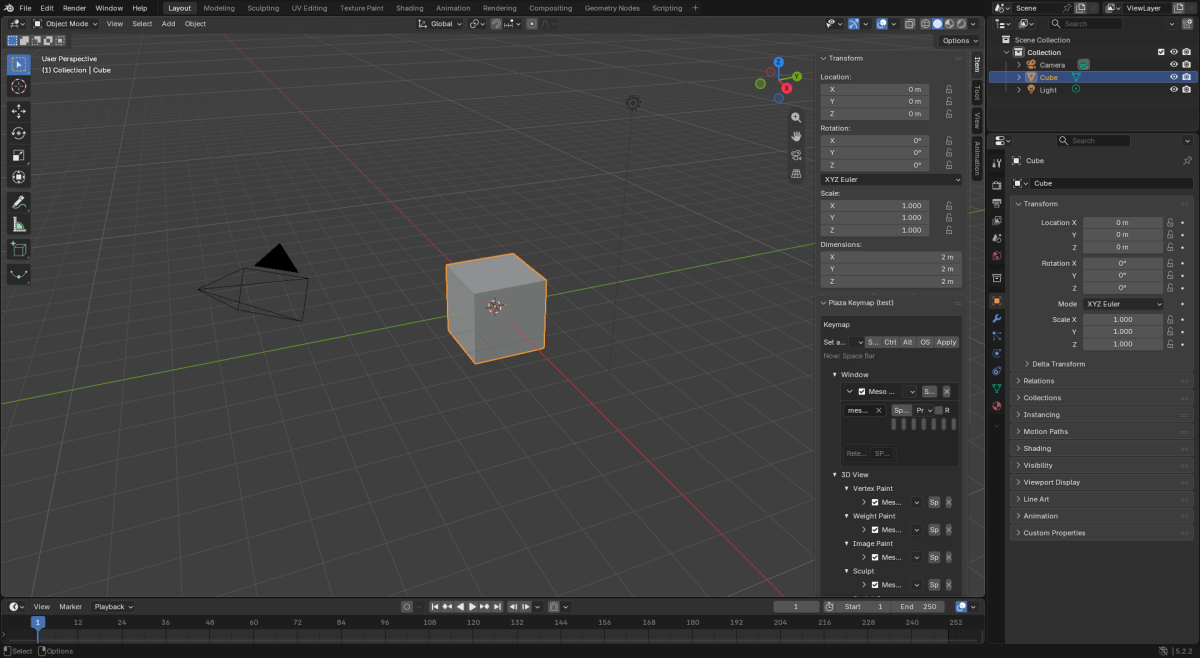
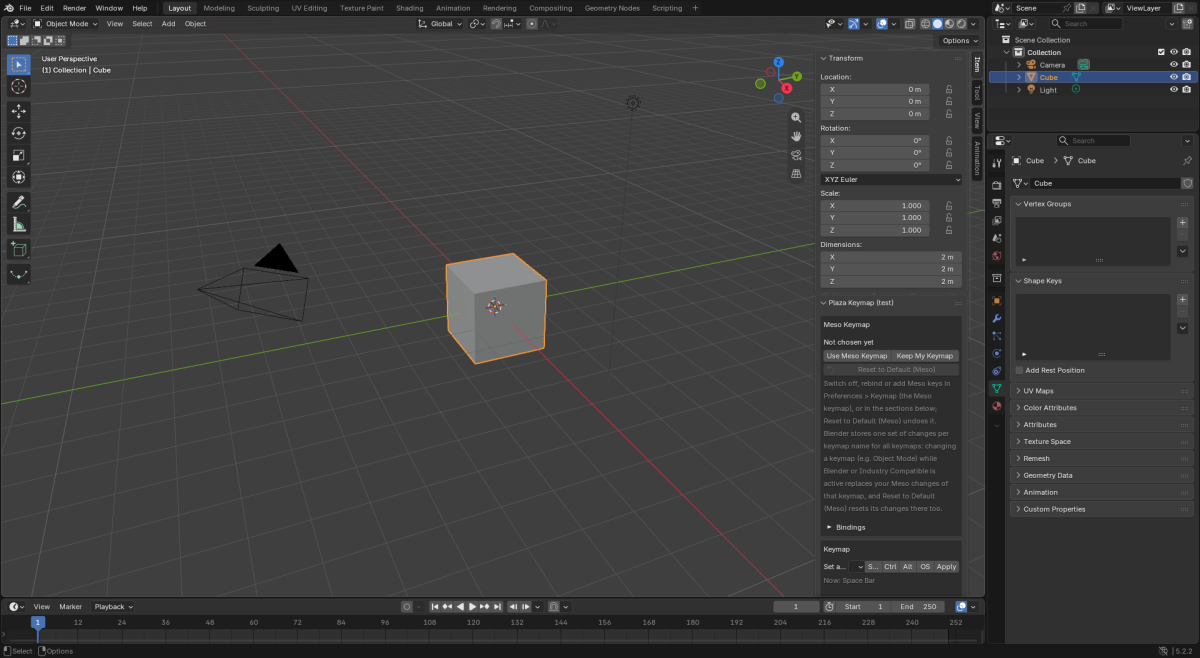
GUI tests: the help text wraps in the real Preferences window
prefs_wrap opens the Preferences on the add-on (preferences.addon_show, as
the Plaza's Meso Settings box does) with the Meso keymap in use, and checks
that the Meso Keymap hints fit their row and break only where the next word
would not fit, at UI scale 1, at 1.5 (more lines) and back (the same lines
again). save_screenshot takes another window. New reference shots:
prefs_wrap.png, prefs_wrap_bindings.png; the sidebar and dialog shots show
the wrapped text.

diff --git a/tests/gui/scenarios_prefs.py b/tests/gui/scenarios_prefs.py
@@ -5,7 +5,10 @@
 Headless tests draw it into a recording stand-in; this one draws the real thing into a real
 UILayout: a temporary 3D View sidebar panel calls ``keymap_prefs.draw`` with every section
 expanded and the Window item's details open (the path that queries the window-system
-capabilities). Loaded by ``tests/gui/gui_driver.py`` like every ``scenarios_*.py``.
+capabilities). ``prefs_wrap`` opens the real Preferences window on the add-on (as the Plaza's
+Meso Settings box does) and checks that the help text wraps to the full width of its row, at UI
+scale 1 and 1.5 and back (``docs/screenshots/prefs_wrap*.png``). Loaded by
+``tests/gui/gui_driver.py`` like every ``scenarios_*.py``.
 """
 
 import importlib
@@ -91,4 +94,117 @@ def scenarios(drv):
             area.tag_redraw()
             yield 0.1
 
-    return [("prefs_keymap", sc_prefs_keymap)]
+    def sc_prefs_wrap(rec):
+        """The help text in the real Preferences window (user item E of 2026-09-26): the add-on
+        shown by ``preferences.addon_show`` (as the Plaza's Meso Settings box does), the Meso
+        Keymap in use, the text wrapped to the full width of its row at UI scale 1 and 1.5."""
+        kp = importlib.import_module(drv.ADDON_MODULE + ".keymap_prefs")
+        wt = importlib.import_module(drv.ADDON_MODULE + ".wrapped_text")
+        tw = importlib.import_module(drv.ADDON_MODULE + ".core.text_wrap")
+        mk = importlib.import_module(drv.ADDON_MODULE + ".meso_keymap")
+        wm = bpy.context.window_manager
+        view = bpy.context.preferences.view
+        saved_scale = view.ui_scale
+        n_windows = len(wm.windows)
+        details = rec.setdefault("details", {})
+
+        def prefs_window():
+            for w in wm.windows:
+                for a in w.screen.areas:
+                    if a.type == 'PREFERENCES':
+                        r = next((r for r in a.regions if r.type == 'WINDOW'), None)
+                        if r is not None:
+                            return w, a, r
+            return None, None, None
+
+        def measured(tag):
+            w, a, r = prefs_window()
+            with bpy.context.temp_override(window=w, area=a, region=r):
+                ctx = bpy.context
+                scale = wt.ui_scale(ctx)
+                limit = tw.label_width(r.width, scale, 1 + wt.base_boxes(ctx))
+                m = wt.measure(ctx)
+                out = {}
+                for key, text in (("editor", kp.KEYMAP_EDITOR_HINT),
+                                  ("shared", kp.SHARED_EDITS_HINT)):
+                    lines = wt.lines(text, ctx, boxes=1)
+                    out[key] = lines
+                    drv.check(rec, f"{tag}_{key}_fits", all(m(t) <= limit for t in lines),
+                              [[round(m(t)) for t in lines], limit])
+                    greedy = all(m(f"{t} {n.split()[0]}") > limit
+                                 for t, n in zip(lines, lines[1:]))
+                    drv.check(rec, f"{tag}_{key}_full_width", greedy, lines)
+                details[tag] = {"region_width": r.width, "scale": scale, "label_width": limit,
+                                "boxes": wt.base_boxes(ctx), "font_px": wt.font_px(ctx),
+                                "lines": out}
+                drv.check(rec, f"{tag}_host_boxes", wt.base_boxes(ctx) == 2, wt.base_boxes(ctx))
+                return out
+
+        try:
+            with bpy.context.temp_override(window=drv.win()):
+                bpy.ops.meso.keymap_choose(choice='MESO')
+                bpy.ops.preferences.addon_show(module=drv.ADDON_MODULE)
+            yield 1.0
+            w, a, r = prefs_window()
+            drv.check(rec, "prefs_window", w is not None and len(wm.windows) == n_windows + 1,
+                      len(wm.windows))
+            if w is None:
+                return
+            for _i in range(6):                  # down to the Meso Keymap box
+                with bpy.context.temp_override(window=w, area=a, region=r):
+                    bpy.ops.view2d.scroll_down(deltay=120)
+            a.tag_redraw()
+            yield 0.6
+            one = measured("scale_1")
+            drv.save_screenshot("prefs_wrap", window=prefs_window()[0])
+            view.ui_scale = 1.5
+            yield 0.8
+            big = measured("scale_1_5")
+            drv.check(rec, "bigger_scale_more_lines",
+                      len(big["shared"]) >= len(one["shared"])
+                      and len(big["editor"]) + len(big["shared"])
+                      > len(one["editor"]) + len(one["shared"]),
+                      [len(one["shared"]), len(big["shared"])])
+            view.ui_scale = saved_scale
+            yield 0.6
+            again = measured("scale_back")
+            drv.check(rec, "rewrapped_back", again == one, [again, one])
+            # The binding groups open, with a warning row: the indented hints wrap too.
+            tree = importlib.import_module(drv.ADDON_MODULE + ".core.keymap_tree")
+            mb = importlib.import_module(drv.ADDON_MODULE + ".core.meso_bindings")
+            prefs = drv.addon_prefs()
+            saved_expanded = prefs.keymap_expanded
+            root = kp.MESO_ROOT
+            prefs.keymap_expanded = tree.EXPANDED_SEP.join(
+                [root] + [f"{root}{tree.PATH_SEP}{label}" for _g, label in mb.GROUPS
+                          if label in ("Snapping", "Pivot")])
+            mk.set_binding_active('deselect_all', False)
+            w, a, r = prefs_window()
+            for _i in range(8):
+                with bpy.context.temp_override(window=w, area=a, region=r):
+                    bpy.ops.view2d.scroll_down(deltay=120)
+            a.tag_redraw()
+            yield 0.6
+            drv.save_screenshot("prefs_wrap_bindings", window=prefs_window()[0])
+            prefs.keymap_expanded = saved_expanded
+        finally:
+            view.ui_scale = saved_scale
+            for w in list(wm.windows):
+                if w != drv.win() and any(a.type == 'PREFERENCES' for a in w.screen.areas):
+                    try:
+                        with bpy.context.temp_override(window=w):
+                            bpy.ops.wm.window_close()
+                    except Exception as ex:
+                        drv.check(rec, "prefs_window_close", False, repr(ex))
+            wm.addon_search = ""
+            p = drv.addon_prefs()
+            if p is not None and p.keymap_choice == 'MESO':
+                mk.reset_to_default()
+                with bpy.context.temp_override(window=drv.win()):
+                    bpy.ops.meso.keymap_choose(choice='KEEP')
+                p.keymap_choice = 'UNDECIDED'
+                p.previous_keyconfig = ""
+            yield 0.5
+        drv.check(rec, "prefs_window_closed", len(wm.windows) == n_windows, len(wm.windows))
+
+    return [("prefs_keymap", sc_prefs_keymap), ("prefs_wrap", sc_prefs_wrap)]

diff --git a/tests/gui/gui_driver.py b/tests/gui/gui_driver.py
@@ -1105,11 +1105,11 @@ def backend_name():
     return gpu.platform.backend_type_get().lower()
 
 
-def save_screenshot(name):
-    """Save the window as <shots>/<name>.png (full size) and docs/screenshots/<name>.png
-    (downscaled to <= SHOT_MAX_W wide). Returns both paths."""
+def save_screenshot(name, window=None):
+    """Save the window (the main one by default) as <shots>/<name>.png (full size) and
+    docs/screenshots/<name>.png (downscaled to <= SHOT_MAX_W wide). Returns both paths."""
     import imbuf
-    pixels = win().screenshot()
+    pixels = (window or win()).screenshot()
     h, w = pixels.shape[0], pixels.shape[1]
     ibuf = imbuf.new((w, h))
     ibuf.file_type = 'PNG'
